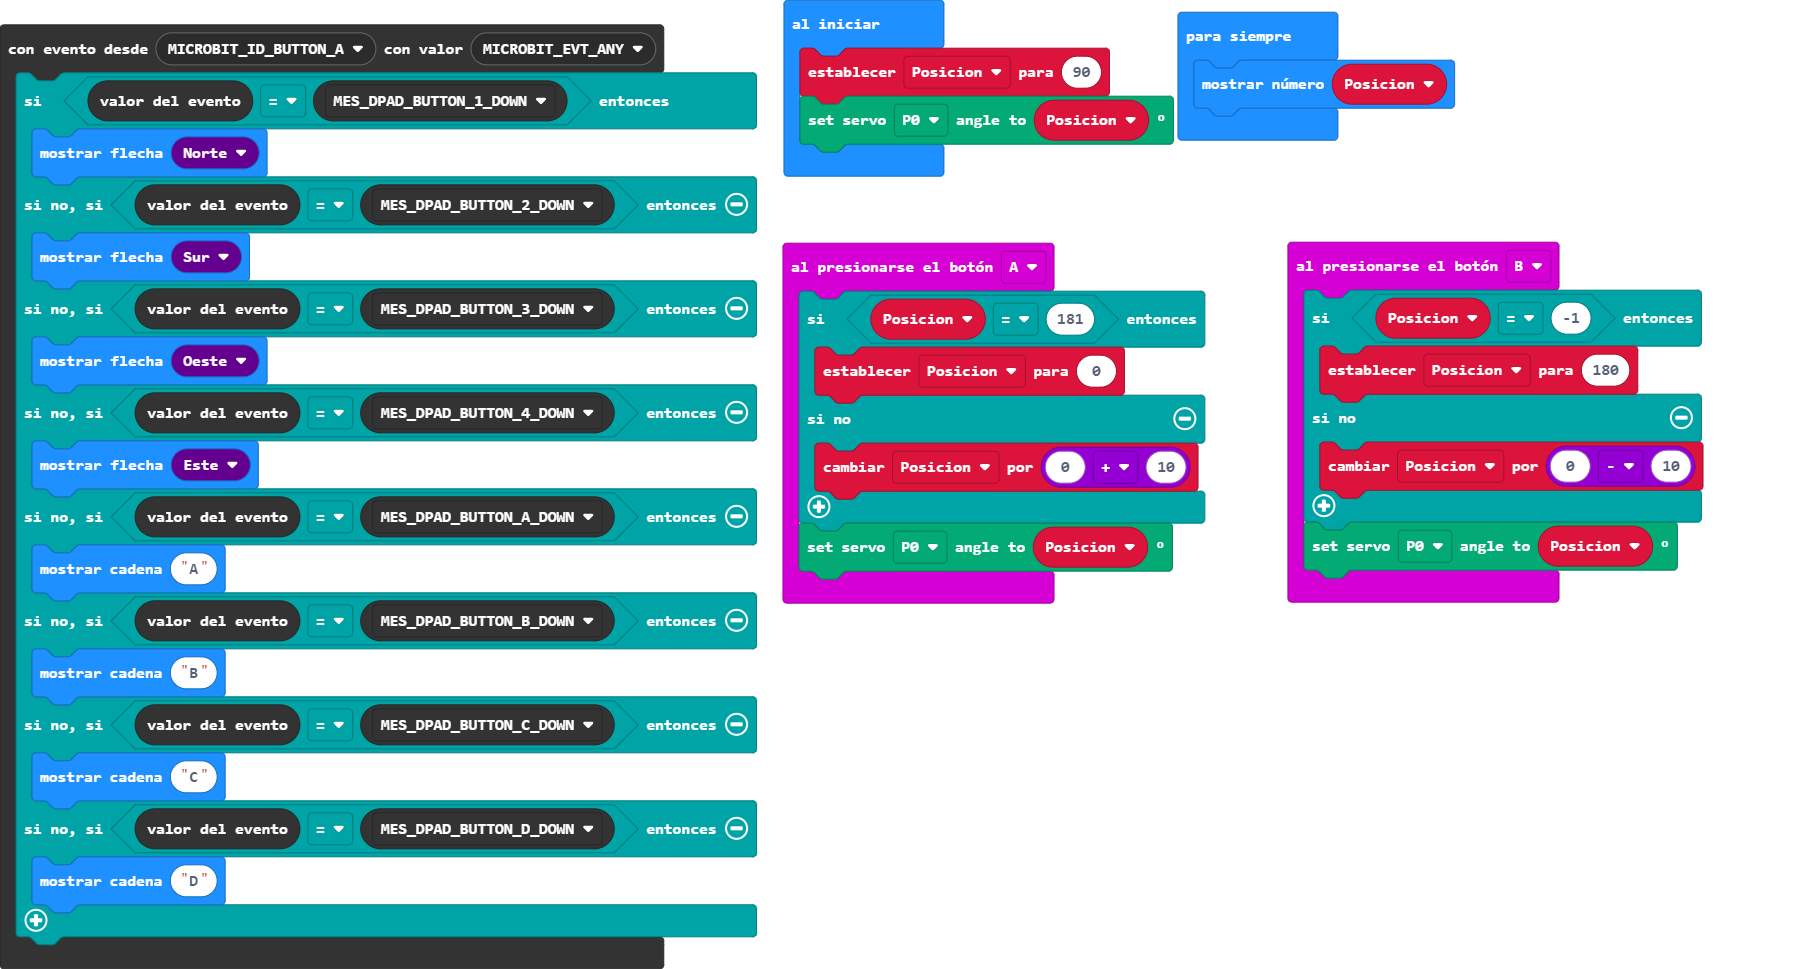
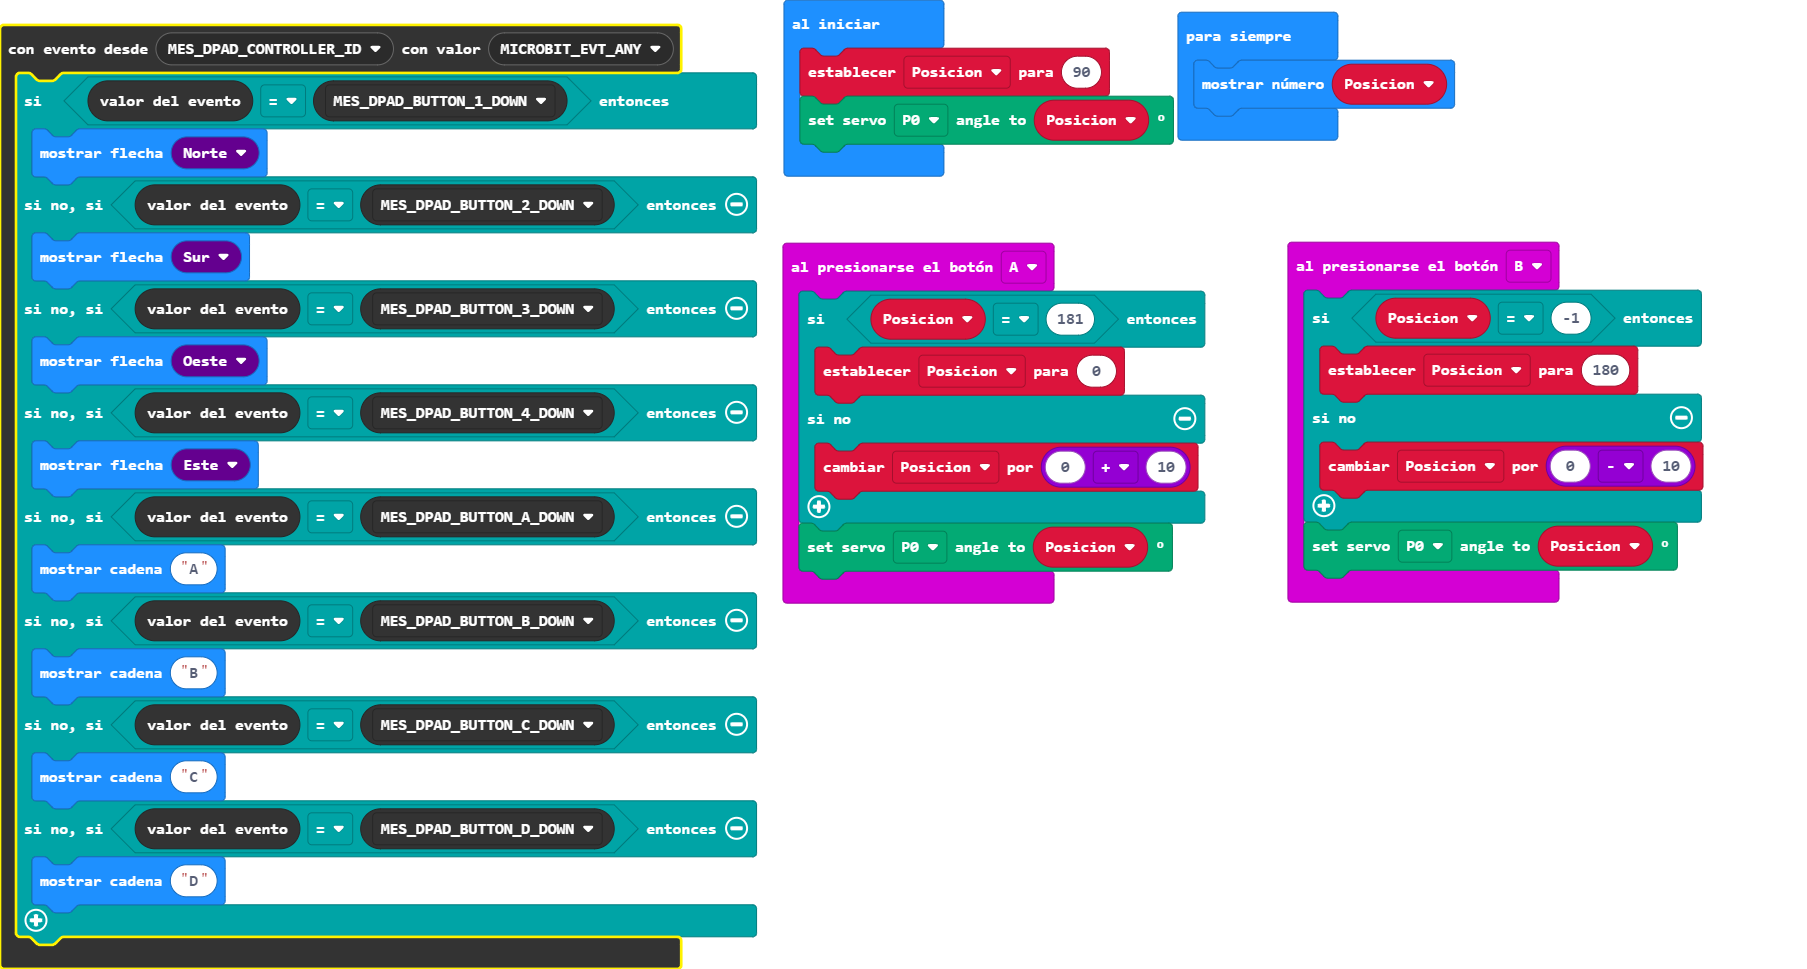
Ya sirve con el bluetooth pero le falta la parte del control de serbos

Changed region(s): [[0.0, 0.0, 0.4029, 1.0]]

diff --git a/main.ts b/main.ts
@@ -14,7 +14,7 @@ input.onButtonPressed(Button.B, function () {
     }
     servos.P0.setAngle(Posicion)
 })
-control.onEvent(EventBusSource.MICROBIT_ID_BUTTON_A, EventBusValue.MICROBIT_EVT_ANY, function () {
+control.onEvent(EventBusSource.MES_DPAD_CONTROLLER_ID, EventBusValue.MICROBIT_EVT_ANY, function () {
     if (control.eventValue() == EventBusValue.MES_DPAD_BUTTON_1_DOWN) {
         basic.showArrow(ArrowNames.North)
     } else if (control.eventValue() == EventBusValue.MES_DPAD_BUTTON_2_DOWN) {
